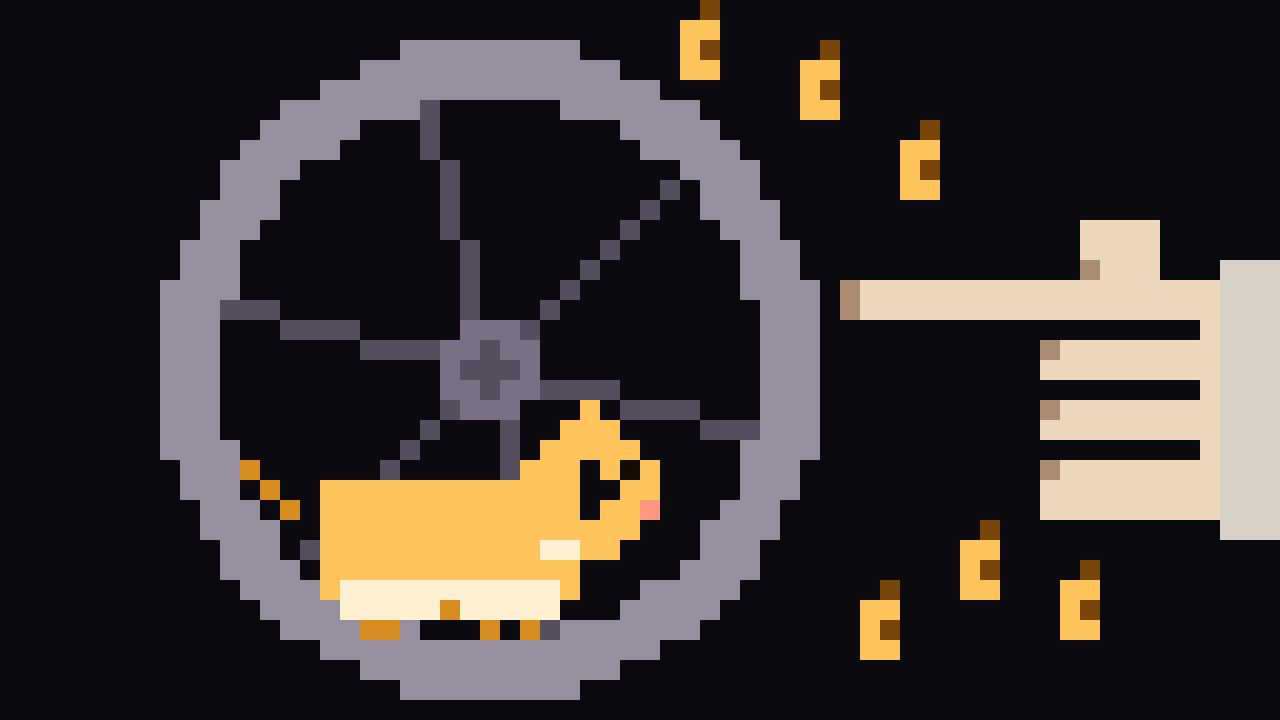
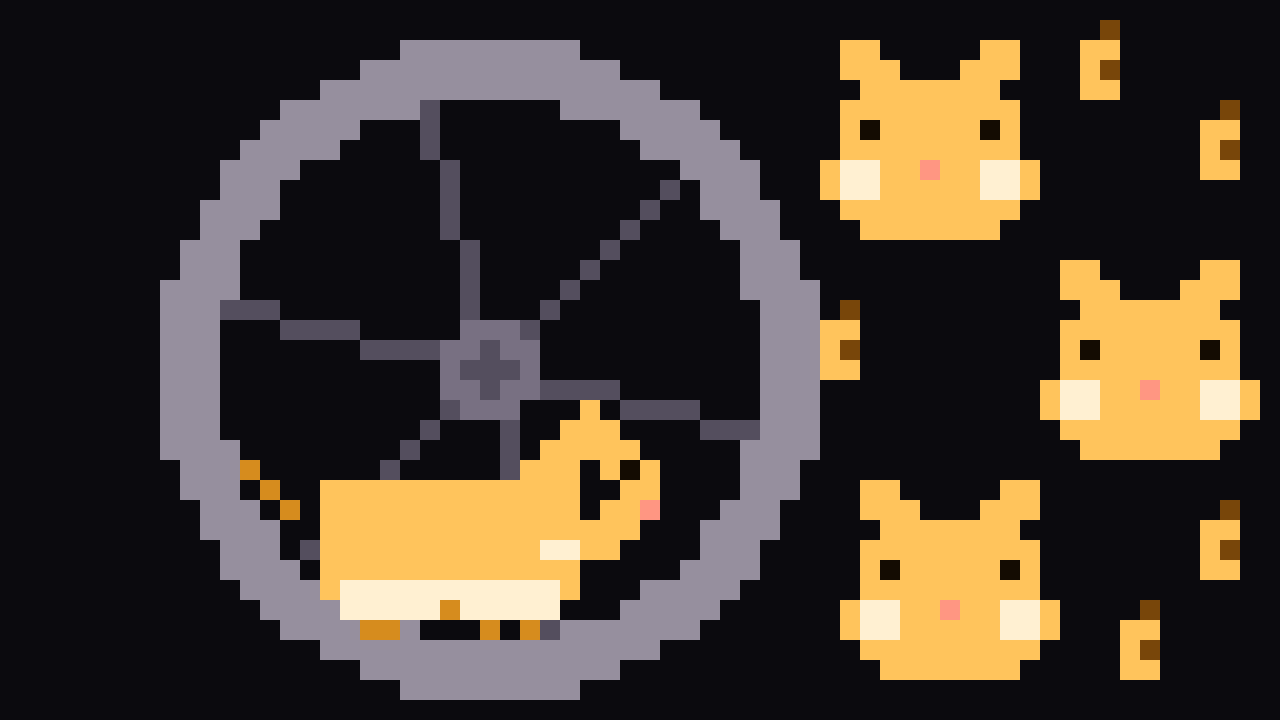
docs: headline image with three wheelmates watching the wheel

diff --git a/tools/card.py b/tools/card.py
@@ -1,14 +1,18 @@
 """Draws the Code Lane headline image: the board shows covers as a 64 x 36 grid of LED dots, so the picture is designed
-dot by dot on that grid and exported at 20 px per dot (1280 x 720). Own drawing: a running wheel seen from the side,
-Squeektoshi running inside it, speed lines and seeds flying out. Also writes a preview of how the board's dot grid
-renders it. Run: python tools/card.py"""
+dot by dot on that grid and exported at 20 px per dot (1280 x 720). Own drawing: a running wheel seen from the side
+with Squeektoshi running inside it, plus one of several right-hand motifs. Also writes a preview of how the board's dot
+grid renders it. Run: python tools/card.py [mates|arcs|x2|chest|hand] (the board uses mates)"""
+import math
+import sys
 from pathlib import Path
 from PIL import Image, ImageDraw
 
 W, H = 64, 36
 BG, RING, SPOKE, HUB = (11, 10, 14), (150, 143, 158), (84, 78, 94), (120, 112, 130)
 FUR, FUR_DK, BELLY, INK, NOSE = (255, 196, 92), (214, 140, 30), (255, 240, 210), (20, 12, 2), (255, 150, 130)
-SEED, SEED_DK, SKIN, SKIN_DK, CUFF = (255, 196, 92), (120, 70, 10), (236, 214, 190), (170, 140, 115), (214, 208, 198)
+SEED, SEED_DK = (255, 196, 92), (120, 70, 10)
+SKIN, SKIN_DK, CUFF = (236, 214, 190), (170, 140, 115), (214, 208, 198)
+WOOD, WOOD_DK, BRASS, GLOW = (176, 112, 60), (110, 66, 30), (255, 230, 150), (255, 240, 210)
 
 px = {}
 def put(x, y, c):
@@ -24,67 +28,110 @@ def line(x0, y0, x1, y1, c):
 def rect(x0, y0, x1, y1, c):
     for y in range(y0, y1 + 1):
         for x in range(x0, x1 + 1): put(x, y, c)
-
-# the wheel: a thick ring with six spokes and a hub, centre (24, 18), outer radius 16
-CX, CY = 24, 18
-disc(CX, CY, 16, RING, r_in=13.6)
-import math
-for k in range(6):
-    a = math.radians(k * 60 + 15)
-    line(CX, CY, round(CX + 13 * math.cos(a)), round(CY + 13 * math.sin(a)), SPOKE)
-disc(CX, CY, 2, HUB)
-
-# Squeektoshi running at the bottom of the drum, facing right
-rect(16, 24, 28, 29, FUR)          # body
-disc(18, 26, 2, FUR)               # rump
-rect(17, 29, 27, 30, BELLY)        # belly
-disc(29, 24, 3, FUR)               # head
-put(29, 20, FUR); put(30, 21, FUR) # ear
-put(31, 23, INK)                   # eye
-put(32, 25, NOSE)                  # nose
-rect(27, 27, 28, 27, BELLY)        # cheek
-line(14, 25, 12, 23, FUR_DK)       # tail
-put(18, 31, FUR_DK); put(19, 31, FUR_DK); put(24, 31, FUR_DK); put(26, 31, FUR_DK)  # feet
-put(22, 30, FUR_DK)
-
-# a hand tapping the wheel from the right, drawn like a cursor: index finger out along the top, three curled fingers
-# below it separated by dark rows (off dots on the board), thumb on top, a cuff at the edge
-rect(42, 14, 52, 15, SKIN)                 # index finger
-put(42, 14, SKIN_DK); put(42, 15, SKIN_DK) # fingertip shade
-rect(52, 14, 60, 25, SKIN)                 # fist
-for y in (16, 19, 22): rect(52, y, 59, y, BG)        # gaps between the curled fingers
-for y in (17, 20, 23): put(52, y, SKIN_DK)           # knuckle shade
-rect(54, 11, 57, 13, SKIN); put(54, 13, SKIN_DK)     # thumb
-rect(61, 13, 63, 26, CUFF)                 # cuff
-# tap ripple at the rim
-for (x, y) in ((39, 13), (40, 14), (40, 16), (40, 18), (40, 20), (39, 21)): put(x, y, RING)
-# seeds popping out of the wheel
+def arc(cx, cy, r, a0, a1, c):
+    for k in range(int((a1 - a0) * 4) + 1):
+        a = math.radians(a0 + k / 4)
+        put(round(cx + r * math.cos(a)), round(cy + r * math.sin(a)), c)
 def seed(x, y):
     put(x, y, SEED); put(x + 1, y, SEED); put(x, y + 1, SEED); put(x + 1, y + 1, SEED_DK); put(x + 1, y + 2, SEED); put(x, y + 2, SEED)
     put(x + 1, y - 1, SEED_DK)
-for (x, y) in ((40, 3), (45, 7), (34, 1), (48, 27), (43, 30), (53, 29)):
-    seed(x, y)
+def glyph(rows, x0, y0, c, s=2):  # a bitmap glyph scaled by s
+    for j, row in enumerate(rows):
+        for i, ch in enumerate(row):
+            if ch == '#': rect(x0 + i * s, y0 + j * s, x0 + i * s + s - 1, y0 + j * s + s - 1, c)
 
-# render
-out = Path(__file__).resolve().parent.parent / "docs"
-scale = 20
-im = Image.new("RGB", (W * scale, H * scale), BG)
-d = ImageDraw.Draw(im)
-small = Image.new("RGB", (W, H), BG)
-for (x, y), c in px.items():
-    d.rectangle([x * scale, y * scale, (x + 1) * scale - 1, (y + 1) * scale - 1], fill=c)
-    small.putpixel((x, y), c)
-im.save(out / "card-headline.png")
-small.save(out / "card-64x36.png")
-# preview: the board's look, round dots lit by brightness in a blue tint on black
-pv = Image.new("RGB", (W * 10, H * 10), (0, 0, 0))
-pd = ImageDraw.Draw(pv)
-for y in range(H):
-    for x in range(W):
-        c = px.get((x, y), BG)
-        lum = (0.3 * c[0] + 0.59 * c[1] + 0.11 * c[2]) / 255
-        v = max(0.08, lum)
-        col = (int(60 * v), int(90 * v), int(255 * v)) if lum < 0.9 else (int(200 * v), int(215 * v), 255)
-        pd.ellipse([x * 10 + 1, y * 10 + 1, x * 10 + 9, y * 10 + 9], fill=col)
-pv.save(Path(r"C:/Users/user/.claude/jobs/cba2ae0e/tmp/card-led-preview.png"))
-print("wrote", out / "card-headline.png", "and the 64x36 copy; preview in tmp")
+CX, CY = 24, 18
+def wheel():
+    disc(CX, CY, 16, RING, r_in=13.6)
+    for k in range(6):
+        a = math.radians(k * 60 + 15)
+        line(CX, CY, round(CX + 13 * math.cos(a)), round(CY + 13 * math.sin(a)), SPOKE)
+    disc(CX, CY, 2, HUB)
+    # Squeektoshi running at the bottom of the drum, facing right
+    rect(16, 24, 28, 29, FUR); disc(18, 26, 2, FUR); rect(17, 29, 27, 30, BELLY)
+    disc(29, 24, 3, FUR); put(29, 20, FUR); put(30, 21, FUR)
+    put(31, 23, INK); put(32, 25, NOSE); rect(27, 27, 28, 27, BELLY)
+    line(14, 25, 12, 23, FUR_DK)
+    for x in (18, 19, 24, 26): put(x, 31, FUR_DK)
+    put(22, 30, FUR_DK)
+
+def motif_hand():
+    rect(42, 14, 52, 15, SKIN); put(42, 14, SKIN_DK); put(42, 15, SKIN_DK)
+    rect(52, 14, 60, 25, SKIN)
+    for y in (16, 19, 22): rect(52, y, 59, y, BG)
+    for y in (17, 20, 23): put(52, y, SKIN_DK)
+    rect(54, 11, 57, 13, SKIN); put(54, 13, SKIN_DK)
+    rect(61, 13, 63, 26, CUFF)
+    for (x, y) in ((40, 3), (45, 7), (34, 1), (48, 27), (43, 30), (53, 29)): seed(x, y)
+
+def motif_arcs():
+    # the wheel is spinning: three motion arcs off the right of the rim, seeds thrown off along the top
+    arc(CX, CY, 19, -38, 38, RING)
+    arc(CX, CY, 22.5, -30, 30, SPOKE)
+    arc(CX, CY, 26, -20, 20, SPOKE)
+    for (x, y) in ((36, 0), (41, 2), (46, 5), (50, 9), (53, 14), (54, 20), (52, 26), (48, 30), (58, 30)): seed(x, y)
+
+def motif_x2():
+    # the live multiplier: a big x2 with a bolt, seeds around
+    X = ['#...#', '.#.#.', '..#..', '.#.#.', '#...#']
+    TWO = ['.###.', '#...#', '....#', '...#.', '..#..', '.#...', '#####']
+    glyph(X, 41, 14, GLOW, 2)
+    glyph(TWO, 52, 10, GLOW, 2)
+    # a small bolt above
+    for (x, y) in ((47, 3), (46, 4), (45, 5), (46, 6), (47, 6), (46, 7), (45, 8), (44, 9)): put(x, y, SEED)
+    for (x, y) in ((40, 28), (46, 30), (54, 28), (60, 30), (60, 4), (56, 1)): seed(x, y)
+
+def motif_chest():
+    # a block chest just opened, seeds bursting out of it
+    rect(44, 20, 61, 31, WOOD)                 # body
+    rect(44, 20, 61, 20, WOOD_DK); rect(44, 31, 61, 31, WOOD_DK)
+    for x in (46, 59): rect(x, 21, x, 30, WOOD_DK)   # straps
+    rect(51, 23, 54, 26, BRASS); put(52, 25, WOOD_DK); put(53, 25, WOOD_DK)  # lock
+    rect(43, 16, 62, 17, WOOD_DK)              # open lid, seen edge-on
+    rect(44, 15, 61, 15, WOOD)
+    # the burst
+    for (x, y) in ((45, 9), (50, 5), (56, 7), (60, 11), (48, 12), (53, 10)): seed(x, y)
+    for (x, y) in ((42, 13), (47, 2), (58, 3), (63, 8), (40, 7)): put(x, y, GLOW)
+
+def motif_mates():
+    # wheelmates: three hamster faces watching from the right, eyes as dark holes so the board shows them as off dots
+    FACE = [".##.....##.", ".###...###.", "..#######..", ".#########.", ".#E#####E#.", ".#########.",
+            "#CC##N##CC#", "#CC#####CC#", ".#########.", "..#######.."]
+    def face(x0, y0):
+        for j, row in enumerate(FACE):
+            for i, ch in enumerate(row):
+                c = {'#': FUR, 'E': INK, 'C': BELLY, 'N': NOSE}.get(ch)
+                if c: put(x0 + i, y0 + j, c)
+    face(41, 2); face(52, 13); face(42, 24)
+    for (x, y) in ((54, 2), (60, 6), (41, 16), (60, 26), (56, 31)): seed(x, y)
+
+MOTIFS = {'arcs': motif_arcs, 'x2': motif_x2, 'chest': motif_chest, 'mates': motif_mates, 'hand': motif_hand}
+
+def render(variant, out_dir, preview_path=None):
+    px.clear()
+    wheel()
+    MOTIFS[variant]()
+    scale = 20
+    im = Image.new("RGB", (W * scale, H * scale), BG)
+    d = ImageDraw.Draw(im)
+    small = Image.new("RGB", (W, H), BG)
+    for (x, y), c in px.items():
+        d.rectangle([x * scale, y * scale, (x + 1) * scale - 1, (y + 1) * scale - 1], fill=c)
+        small.putpixel((x, y), c)
+    pv = Image.new("RGB", (W * 10, H * 10), (0, 0, 0))
+    pd = ImageDraw.Draw(pv)
+    for y in range(H):
+        for x in range(W):
+            c = px.get((x, y), BG)
+            lum = (0.3 * c[0] + 0.59 * c[1] + 0.11 * c[2]) / 255
+            v = max(0.08, lum)
+            col = (int(60 * v), int(90 * v), int(255 * v)) if lum < 0.9 else (int(200 * v), int(215 * v), 255)
+            pd.ellipse([x * 10 + 1, y * 10 + 1, x * 10 + 9, y * 10 + 9], fill=col)
+    return im, small, pv
+
+if __name__ == "__main__":
+    variant = sys.argv[1] if len(sys.argv) > 1 else 'mates'
+    out = Path(__file__).resolve().parent.parent / "docs"
+    im, small, pv = render(variant, out)
+    im.save(out / "card-headline.png"); small.save(out / "card-64x36.png")
+    print("wrote", out / "card-headline.png", "variant", variant)
